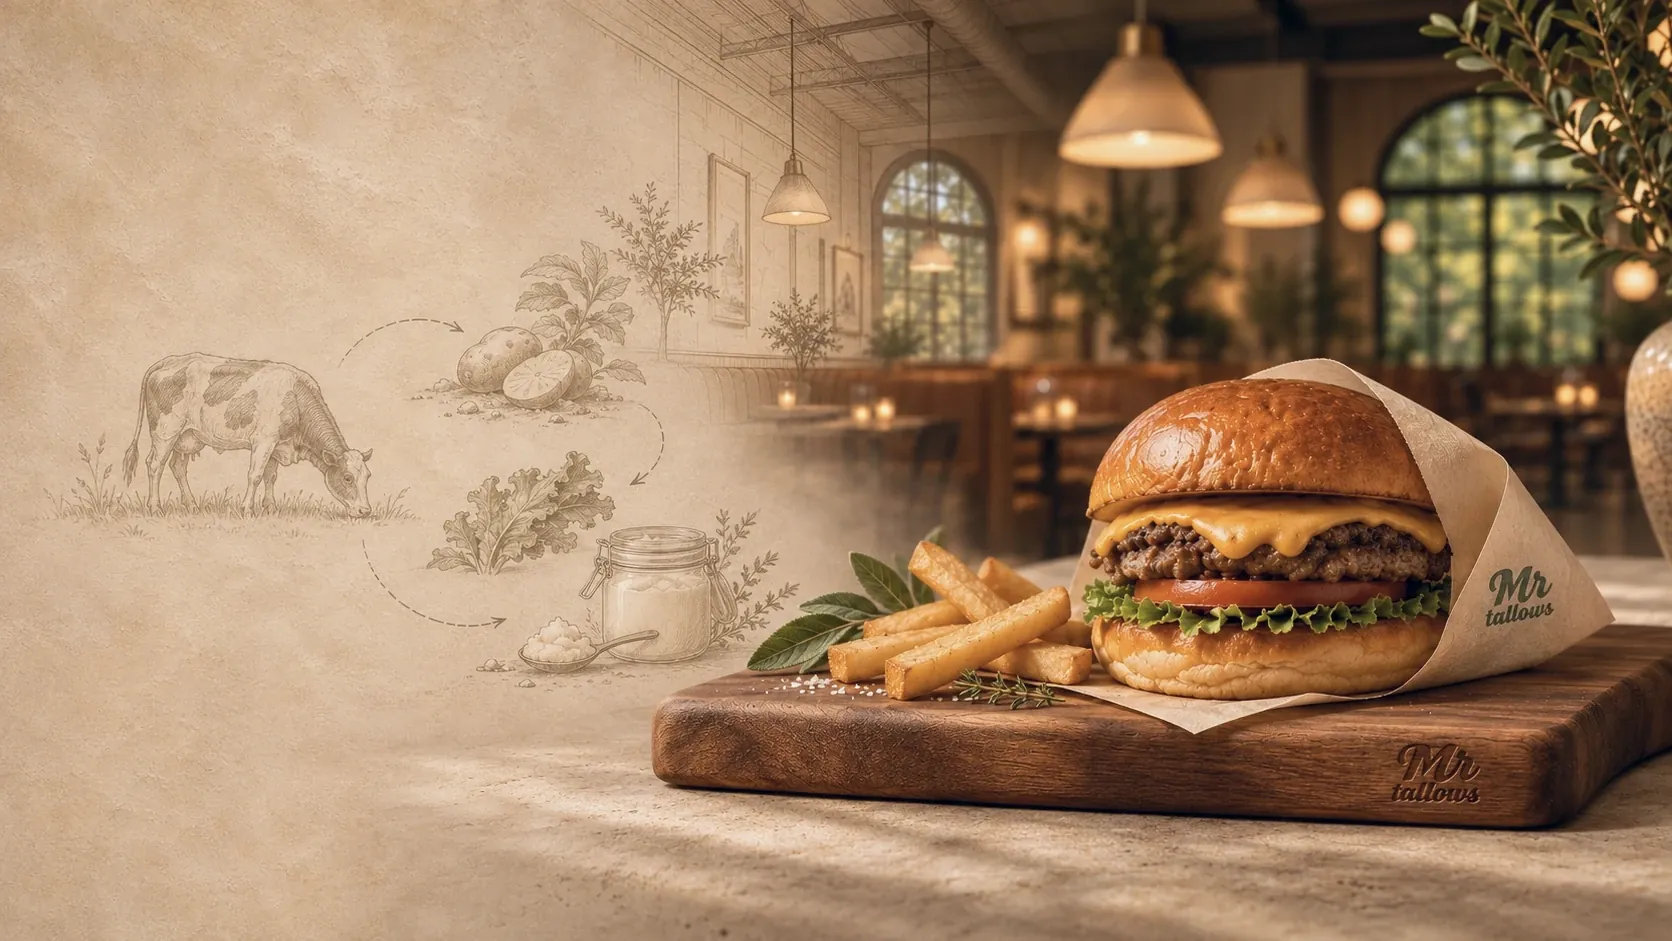
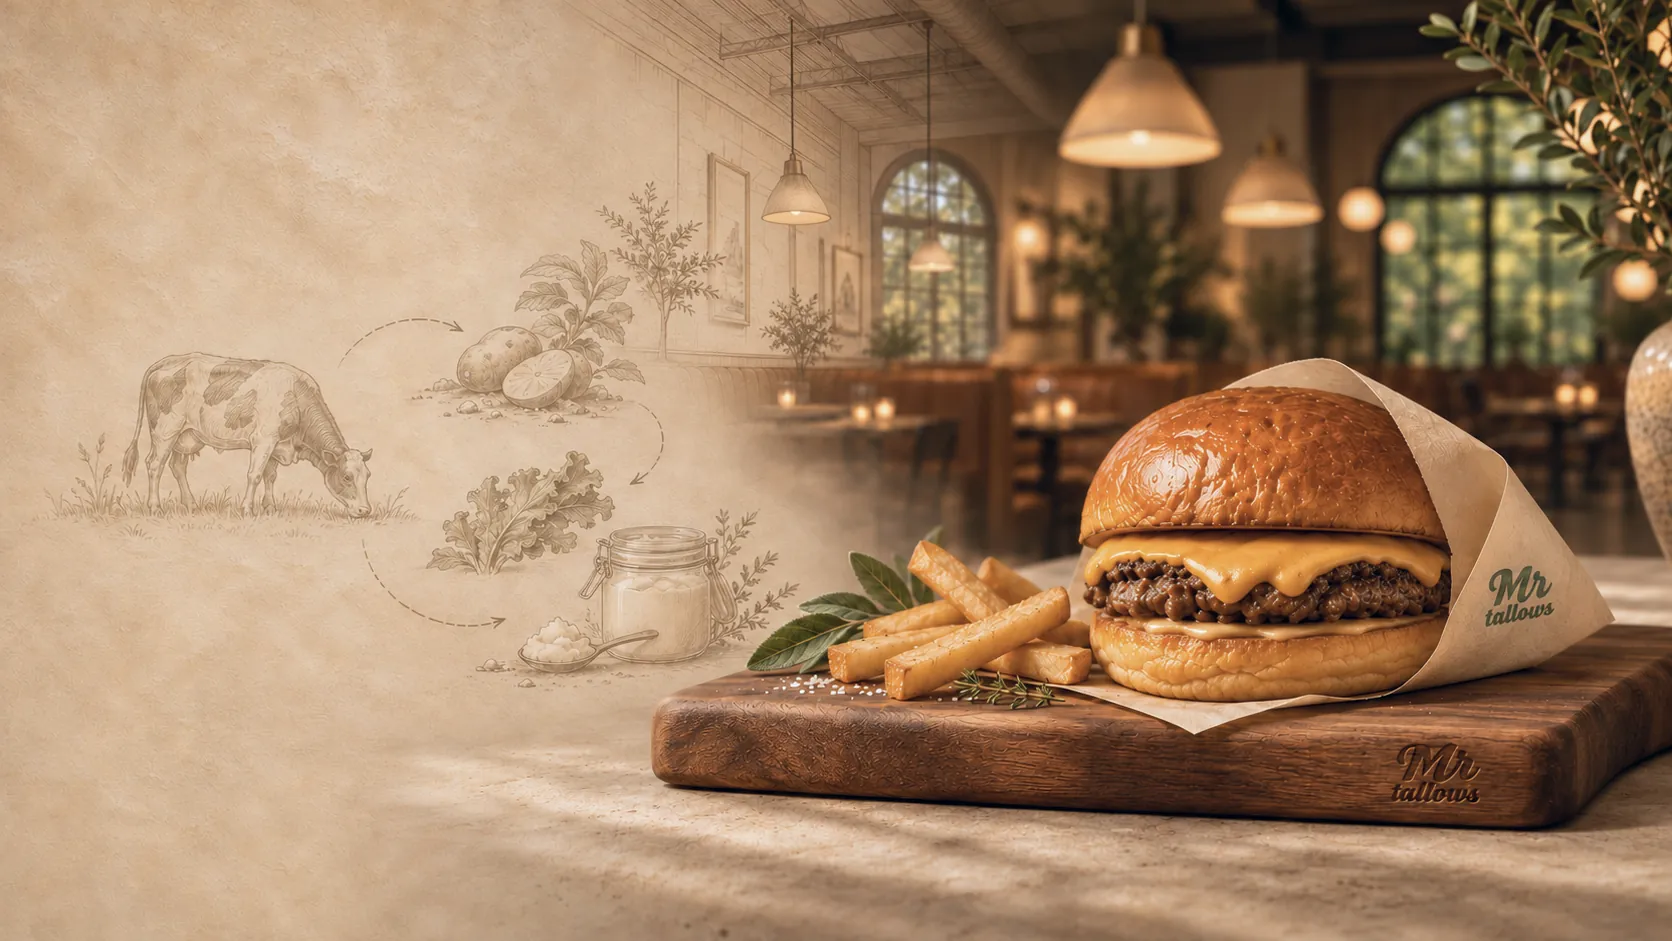
Simpler burger, milkshake, new heroes and slider pair
- New desktop and mobile hero images
- Menu: simple burger (no lettuce/tomato), Chocolate Milkshake replaces salad
- New burger photo/sketch slider pair, aligned, wall recolored to limestone,
  larger burger, all callouts on desktop and mobile, centered divider
- Blush buttons (Order Now, Get Directions) with green text
- Hero scroll parallax on desktop only (fixes mobile jitter)

diff --git a/src/content/site.ts b/src/content/site.ts
@@ -62,24 +62,24 @@ export const features = [
 
 /**
  * Handwritten notes on the signature burger slider.
- * Coordinates are in the 1660 x 780 space of /images/slider-*.webp.
+ * Coordinates are in the 1928 x 683 space of /images/slider-*.webp.
  * `from` is where the arrow leaves the note, `to` is where it lands, `bend` curves it.
  */
 export const burgerNotes = [
-  { text: ["Toasted bun"], at: [1168, 100], from: [1150, 90], to: [1024, 152], bend: -34 },
-  { text: ["Quality beef"], at: [1306, 250], from: [1294, 240], to: [1132, 340], bend: -30 },
-  { text: ["Seared in", "beef tallow"], at: [1302, 382], from: [1290, 412], to: [1110, 424], bend: -18 },
-  { text: ["Real", "ingredients"], at: [1318, 552], from: [1302, 572], to: [1136, 574], bend: -12 },
-  { text: ["Crispy hand-cut", "fries in tallow"], at: [-300, 676], from: [-130, 640], to: [96, 590], bend: -26 },
+  { text: ["Toasted bun"], at: [1438, 170], from: [1421, 158], to: [1264, 225], bend: -30 },
+  { text: ["Quality beef"], at: [1486, 328], from: [1469, 315], to: [1327, 412], bend: -26 },
+  { text: ["Seared in", "beef tallow"], at: [1510, 448], from: [1494, 475], to: [1334, 479], bend: -10 },
+  { text: ["Simple, real", "ingredients"], at: [1486, 599], from: [1469, 587], to: [1320, 575], bend: 10 },
+  { text: ["Crispy hand-cut", "fries in tallow"], at: [470, 160], from: [610, 210], to: [640, 400], bend: -18 },
 ];
 
 /** Mobile callouts, in the 1540 x 1880 space of /images/slider-*-mobile.webp (copy sits in the top 1100). */
 export const burgerNotesMobile = [
-  { text: ["Toasted bun"], at: [960, 1096], from: [950, 1086], to: [884, 1152], bend: -30 },
-  { text: ["Quality beef"], at: [1090, 1250], from: [1080, 1238], to: [992, 1340], bend: -26 },
-  { text: ["Seared in", "beef tallow"], at: [1090, 1386], from: [1080, 1420], to: [970, 1424], bend: -16 },
-  { text: ["Real", "ingredients"], at: [1106, 1552], from: [1096, 1576], to: [996, 1574], bend: -10 },
-  { text: ["Crispy hand-cut", "fries in tallow"], at: [88, 1300], from: [190, 1378], to: [195, 1510], bend: 26 },
+  { text: ["Toasted bun"], at: [1090, 340], from: [1080, 330], to: [965, 420], bend: -28 },
+  { text: ["Quality beef"], at: [1110, 500], from: [1100, 510], to: [1020, 640], bend: -20 },
+  { text: ["Seared in", "beef tallow"], at: [1110, 630], from: [1100, 655], to: [1036, 712], bend: -10 },
+  { text: ["Simple, real", "ingredients"], at: [1110, 780], from: [1100, 790], to: [1040, 790], bend: 6 },
+  { text: ["Crispy hand-cut", "fries in tallow"], at: [40, 440], from: [190, 525], to: [235, 625], bend: 20 },
 ];
 
 export const signature = {
@@ -159,9 +159,9 @@ export const menu = {
     {
       id: "burger",
       name: "Signature Burger",
-      copy: "Beef patty, melted cheese, crisp lettuce and tomato on a toasted bun, seared in beef tallow.",
+      copy: "Beef seared in tallow and melted cheese on a toasted bun. Simple, the way it should be.",
       image: "/images/menu-burger.webp",
-      alt: "Signature cheeseburger with lettuce and tomato on a toasted bun",
+      alt: "Signature cheeseburger: a seared beef patty with melted cheese on a toasted brioche bun",
       price: null as string | null,
     },
     {
@@ -173,11 +173,11 @@ export const menu = {
       price: null as string | null,
     },
     {
-      id: "salad",
-      name: "Fresh Salad",
-      copy: "Seasonal greens with shaved cheese and a simple house dressing.",
-      image: "/images/menu-salad.webp",
-      alt: "Green salad with shaved cheese in a stoneware bowl",
+      id: "shake",
+      name: "Chocolate Milkshake",
+      copy: "Classic chocolate, blended thick and creamy.",
+      image: "/images/menu-shake.webp",
+      alt: "Chocolate milkshake in a tall glass with a green and white striped straw",
       price: null as string | null,
     },
     {

diff --git a/src/components/SignatureBurger.tsx b/src/components/SignatureBurger.tsx
@@ -24,21 +24,21 @@ export default function SignatureBurger() {
   );
 
   return (
-    <section aria-labelledby="signature-title" className="surface-limestone relative overflow-hidden !bg-[#e6d1b9]">
+    <section aria-labelledby="signature-title" className="relative overflow-hidden bg-[#dbcbb8] md:bg-[linear-gradient(180deg,#dbd0c1,#d8c9b6)]">
       {/* below xl: copy sits above the slider */}
       <div className="mx-auto hidden max-w-[var(--container)] px-[var(--gutter)] pt-[clamp(2.25rem,4vw,3rem)] md:block xl:hidden">{intro}</div>
 
       {/* desktop: the slider fills the section; copy overlays the open wall on the left */}
-      <div className="relative mx-auto hidden max-w-[1760px] md:block">
+      <div className="relative mx-auto hidden max-w-[1760px] pb-[clamp(1.5rem,3vw,2.75rem)] md:block">
         <ComparisonSlider
-          className="[mask-image:linear-gradient(to_bottom,transparent,#000_4%,#000_95%,transparent)]"
+          className="[mask-image:linear-gradient(to_bottom,transparent,#000_2%,#000_97%,transparent)]"
           sizes="90vw"
-          inset={0.16}
-          rest={57}
-          photo={{ src: "/images/slider-photo.webp", alt: signature.photoAlt, width: 1660, height: 780 }}
-          sketch={{ src: "/images/slider-sketch.webp", alt: signature.sketchAlt, width: 1660, height: 780 }}
+          inset={0.22}
+          rest={61}
+          photo={{ src: "/images/slider-photo.webp", alt: signature.photoAlt, width: 1928, height: 683 }}
+          sketch={{ src: "/images/slider-sketch.webp", alt: signature.sketchAlt, width: 1928, height: 683 }}
           notes={burgerNotes}
-          labels={["", "Sketched"]}
+          labels={["", ""]}
           labelInset="6%"
         />
         <div className="pointer-events-none absolute left-[var(--edge)] top-[7%] hidden xl:block min-[1760px]:left-[calc(var(--edge)-(100vw-1760px)/2)]">{intro}</div>
@@ -48,14 +48,14 @@ export default function SignatureBurger() {
       <div className="bg-[#dbcbb8] md:hidden">
         <div className="relative z-10 px-[var(--gutter)] pt-10">{intro}</div>
         <ComparisonSlider
-          className="mt-[calc(-1.5rem-54vw)]"
+          className="mt-[calc(-1rem-17vw)]"
           sizes="(min-width: 768px) 1px, 100vw"
-          photo={{ src: "/images/slider-photo-mobile.webp", alt: signature.photoAlt, width: 1380, height: 1780 }}
-          sketch={{ src: "/images/slider-sketch-mobile.webp", alt: signature.sketchAlt, width: 1380, height: 1780 }}
+          photo={{ src: "/images/slider-photo-mobile.webp", alt: signature.photoAlt, width: 1521, height: 894 }}
+          sketch={{ src: "/images/slider-sketch-mobile.webp", alt: signature.sketchAlt, width: 1521, height: 894 }}
           notes={burgerNotesMobile}
-          noteSize={54}
-          textZone={900 / 1780}
-          rest={47}
+          noteSize={52}
+          textZone={380 / 894}
+          rest={48}
           labels={["", ""]}
         />
       </div>

diff --git a/src/components/Hero.tsx b/src/components/Hero.tsx
@@ -21,9 +21,11 @@ export default function Hero() {
     return () => clearTimeout(t);
   }, []);
 
-  // gentle parallax: image drifts slower than the page, copy lifts and fades
+  // gentle parallax: image drifts slower than the page, copy lifts and fades.
+  // Desktop only: on phones the copy sits below the image and the browser bar resizing
+  // the viewport mid-scroll makes scroll-linked motion jitter.
   useEffect(() => {
-    if (prefersReducedMotion()) return;
+    if (prefersReducedMotion() || !window.matchMedia("(min-width: 768px)").matches) return;
     let raf = 0;
     const update = () => {
       raf = 0;
@@ -48,7 +50,7 @@ export default function Hero() {
     <section
       id="top"
       aria-labelledby="hero-title"
-      className={`relative flex h-[calc(var(--header-h)+100vw*1432/941)] flex-col overflow-hidden bg-cream md:h-[min(86svh,44vw)] md:min-h-[420px] md:bg-[linear-gradient(180deg,#be9e80,#ccaf93_25%,#d0b296_50%,#caab8e_75%,#c2a487)] ${
+      className={`relative flex h-[calc(var(--header-h)+100vw*1432/941)] flex-col overflow-hidden bg-cream md:h-[min(86svh,44vw)] md:min-h-[420px] md:bg-[linear-gradient(180deg,#c1a081,#cfb092_25%,#d3b595_50%,#cdaf91_75%,#c4a687)] ${
         ready ? "hero-ready" : ""
       }`}
     >

diff --git a/src/components/Header.tsx b/src/components/Header.tsx
@@ -95,7 +95,7 @@ export default function Header() {
 
         <div className="ml-auto flex items-center gap-3">
           <ContactIcons className="mr-2 hidden md:flex" />
-          <a href={order.href} className="btn btn-solid hidden !h-11 sm:inline-flex">
+          <a href={order.href} className="btn btn-blush hidden !h-11 sm:inline-flex">
             {order.label}
           </a>
           <button
@@ -143,7 +143,7 @@ export default function Header() {
               <p className="eyebrow text-muted">Opening soon in Florida</p>
               <ContactIcons size="h-11 w-11" />
             </div>
-            <a href={order.href} onClick={() => setOpen(false)} className="btn btn-solid w-full justify-between">
+            <a href={order.href} onClick={() => setOpen(false)} className="btn btn-blush w-full justify-between">
               {order.label}
             </a>
           </div>

diff --git a/src/components/LocationSection.tsx b/src/components/LocationSection.tsx
@@ -78,7 +78,7 @@ export default function LocationSection() {
                 href={directionsHref}
                 target="_blank"
                 rel="noopener noreferrer"
-                className="inline-flex h-10 items-center rounded-full bg-forest px-5 text-[0.8rem] font-medium text-cream transition-colors duration-500 hover:bg-forest-deep"
+                className="inline-flex h-10 items-center rounded-full bg-blush px-5 text-[0.8rem] font-medium text-forest-deep transition-colors duration-500 hover:bg-[#c98c78]"
               >
                 Get Directions
               </a>

diff --git a/src/app/globals.css b/src/app/globals.css
@@ -297,6 +297,13 @@
   .btn-solid::before {
     background: var(--color-forest-deep);
   }
+  .btn-blush {
+    background: var(--color-blush);
+    color: var(--color-forest-deep);
+  }
+  .btn-blush::before {
+    background: #c98c78;
+  }
   .btn-outline {
     border: 1.5px solid currentColor;
     color: var(--color-ink);
